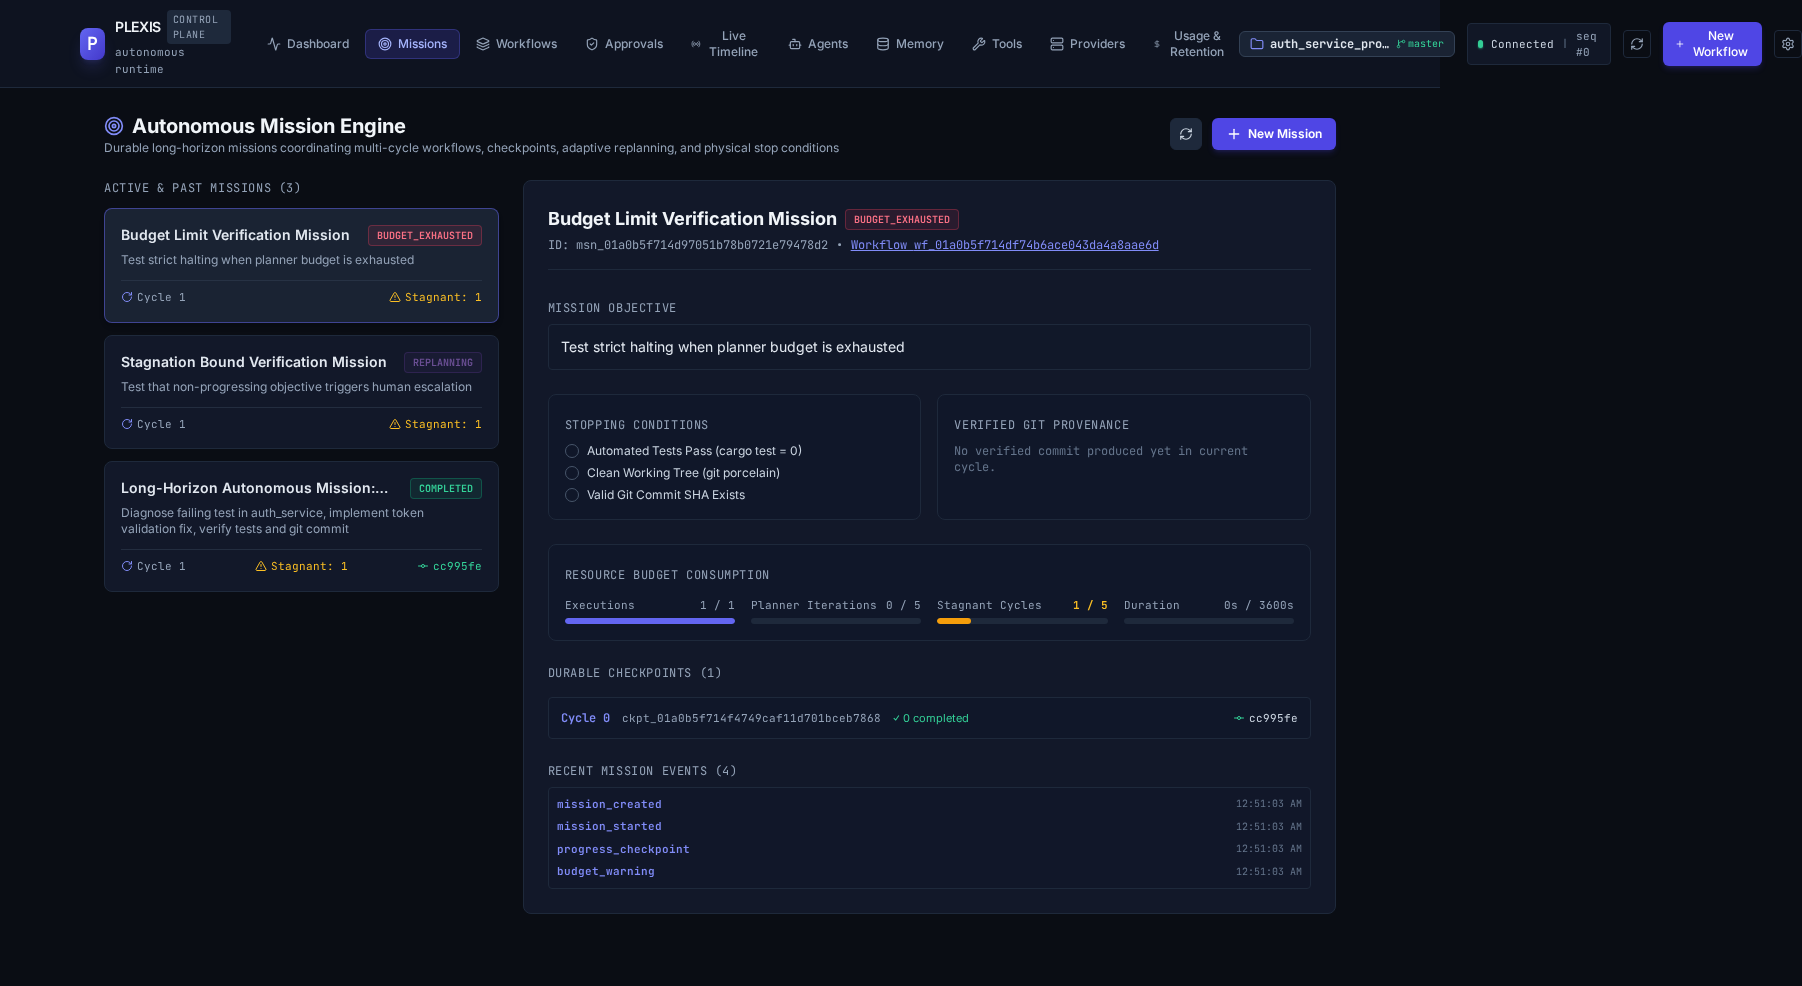
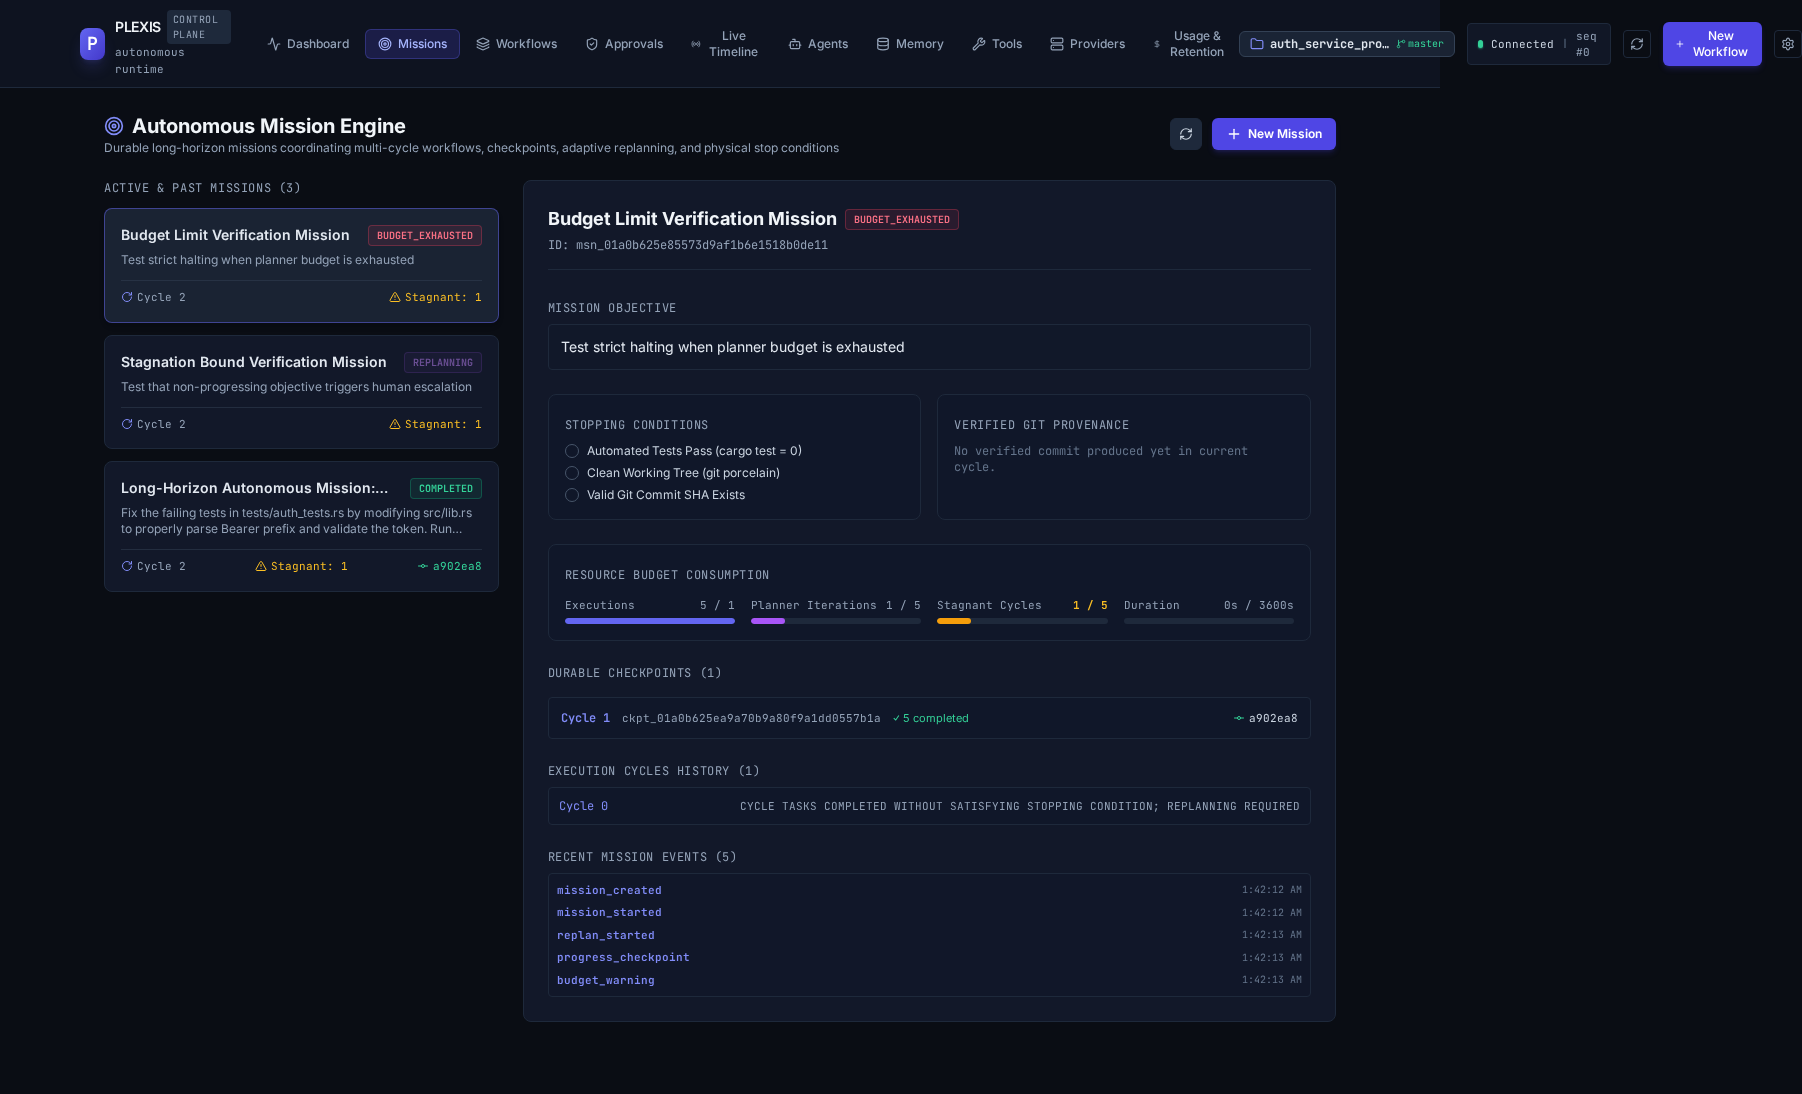
test(e2e): add real failure recovery and restart during mission

diff --git a/crates/plexis-server/src/workflow_executor.rs b/crates/plexis-server/src/workflow_executor.rs
@@ -216,8 +216,15 @@ impl WorkflowExecutor for ServerWorkflowExecutor {
                         "git".into(),
                     ]);
                     disc_task.metadata["suggested_role"] = serde_json::json!("Developer");
-                    if let Some(ref b) = wf.metadata.get("backend") {
-                        disc_task.metadata["backend"] = (*b).clone();
+                    let cycle_idx = wf
+                        .metadata
+                        .get("cycle_index")
+                        .and_then(|v| v.as_u64())
+                        .unwrap_or(0);
+                    if cycle_idx > 0 {
+                        if let Some(ref b) = wf.metadata.get("backend") {
+                            disc_task.metadata["backend"] = (*b).clone();
+                        }
                     }
                     if let Ok(()) = self.store.create_task(&disc_task).await {
                         summary.discovered_tasks_count += 1;
@@ -248,10 +255,10 @@ impl WorkflowExecutor for ServerWorkflowExecutor {
                 }
                 _ => {
                     consecutive_empty_ticks += 1;
-                    if consecutive_empty_ticks > 6 {
+                    if consecutive_empty_ticks > 12 {
                         break;
                     }
-                    tokio::time::sleep(Duration::from_millis(50)).await;
+                    tokio::time::sleep(Duration::from_millis(100)).await;
                 }
             }
         }
@@ -323,11 +330,32 @@ pub async fn plan_workflow_objective(
         .await
         .map_err(|e| format!("Failed to apply plan: {}", e))?;
 
-    // If workflow has a backend configured (e.g. gemini_cli), attach to all created tasks
+    // If workflow has a backend configured (e.g. gemini_cli), attach to appropriate tasks
     if let Some(ref backend_val) = workflow.metadata.get("backend") {
+        let cycle_idx = workflow
+            .metadata
+            .get("cycle_index")
+            .and_then(|v| v.as_u64())
+            .unwrap_or(0);
+
         for tid in result.created_tasks.values() {
             if let Ok(Some(mut t)) = store.get_task(tid).await {
-                t.metadata["backend"] = (*backend_val).clone();
+                if cycle_idx == 0 {
+                    t.metadata["backend"] = serde_json::json!("scripted");
+                    if t.criteria.iter().any(|c| c.contains("impl")) {
+                        t.metadata["verification_type"] = serde_json::json!("command");
+                        t.metadata["verification_target"] = serde_json::json!("cargo test");
+                    }
+                } else {
+                    if t.criteria.iter().any(|c| c.contains("impl"))
+                        || t.metadata.get("suggested_role").and_then(|v| v.as_str())
+                            == Some("Developer")
+                    {
+                        t.metadata["backend"] = (*backend_val).clone();
+                    } else {
+                        t.metadata["backend"] = serde_json::json!("scripted");
+                    }
+                }
                 let _ = store.update_task(&t).await;
             }
         }
@@ -469,76 +497,129 @@ pub async fn populate_autonomous_scripted_responses(
 ) {
     use serde_json::json;
 
-    provider.queue_response(CompletionResponse {
-        message: ChatMessage::assistant_with_tools(vec![ToolCall {
-            id: "call_investigate".into(),
-            name: "shell".into(),
-            arguments: json!({ "command": "echo 'Investigator inspecting repository'" }).to_string(),
-        }]),
-        finish_reason: FinishReason::ToolCalls,
-        usage: TokenUsage {
-            prompt_tokens: 100,
-            completion_tokens: 20,
-            total_tokens: 120,
-        },
-    });
-    provider.queue_response(CompletionResponse {
-        message: ChatMessage::assistant("Diagnosed defect boundary in src/lib.rs."),
-        finish_reason: FinishReason::Stop,
-        usage: TokenUsage {
-            prompt_tokens: 120,
-            completion_tokens: 15,
-            total_tokens: 135,
-        },
-    });
+    for _ in 0..10 {
+        // Investigator responses
+        provider.queue_response(CompletionResponse {
+            message: ChatMessage::assistant_with_tools(vec![ToolCall {
+                id: "call_investigate".into(),
+                name: "shell".into(),
+                arguments: json!({ "command": "echo 'Investigator inspecting repository'" }).to_string(),
+            }]),
+            finish_reason: FinishReason::ToolCalls,
+            usage: TokenUsage {
+                prompt_tokens: 100,
+                completion_tokens: 20,
+                total_tokens: 120,
+            },
+        });
+        provider.queue_response(CompletionResponse {
+            message: ChatMessage::assistant("Diagnosed defect boundary in src/lib.rs."),
+            finish_reason: FinishReason::Stop,
+            usage: TokenUsage {
+                prompt_tokens: 120,
+                completion_tokens: 15,
+                total_tokens: 135,
+            },
+        });
 
-    provider.queue_response(CompletionResponse {
-        message: ChatMessage::assistant_with_tools(vec![ToolCall {
-            id: "call_analysis".into(),
-            name: "shell".into(),
-            arguments: json!({ "command": "echo 'Analyst auditing specifications'" }).to_string(),
-        }]),
-        finish_reason: FinishReason::ToolCalls,
-        usage: TokenUsage {
-            prompt_tokens: 110,
-            completion_tokens: 20,
-            total_tokens: 130,
-        },
-    });
-    provider.queue_response(CompletionResponse {
-        message: ChatMessage::assistant("Analyst verified test requirements in tests/."),
-        finish_reason: FinishReason::Stop,
-        usage: TokenUsage {
-            prompt_tokens: 130,
-            completion_tokens: 15,
-            total_tokens: 145,
-        },
-    });
+        // Analyst responses
+        provider.queue_response(CompletionResponse {
+            message: ChatMessage::assistant_with_tools(vec![ToolCall {
+                id: "call_analysis".into(),
+                name: "shell".into(),
+                arguments: json!({ "command": "echo 'Analyst auditing specifications'" }).to_string(),
+            }]),
+            finish_reason: FinishReason::ToolCalls,
+            usage: TokenUsage {
+                prompt_tokens: 110,
+                completion_tokens: 20,
+                total_tokens: 130,
+            },
+        });
+        provider.queue_response(CompletionResponse {
+            message: ChatMessage::assistant("Analyst verified test requirements in tests/."),
+            finish_reason: FinishReason::Stop,
+            usage: TokenUsage {
+                prompt_tokens: 130,
+                completion_tokens: 15,
+                total_tokens: 145,
+            },
+        });
 
-    provider.queue_response(CompletionResponse {
-        message: ChatMessage::assistant_with_tools(vec![ToolCall {
-            id: "call_git_commit".into(),
-            name: "git".into(),
-            arguments: json!({
-                "action": "commit",
-                "message": "feat: implement requested changes"
-            })
-            .to_string(),
-        }]),
-        finish_reason: FinishReason::ToolCalls,
-        usage: TokenUsage {
-            prompt_tokens: 220,
-            completion_tokens: 30,
-            total_tokens: 250,
-        },
-    });
-    provider.queue_response(CompletionResponse {
-        message: ChatMessage::assistant("Verified artifact committed to Git repository."),
-        finish_reason: FinishReason::Stop,
-        usage: TokenUsage {
-            prompt_tokens: 180,
-            completion_tokens: 20,
-            total_tokens: 200,
-        },
-    });
+        // Developer / general responses
+        provider.queue_response(CompletionResponse {
+            message: ChatMessage::assistant_with_tools(vec![ToolCall {
+                id: "call_dev".into(),
+                name: "shell".into(),
+                arguments: json!({ "command": "echo 'Developer executing implementation analysis'" }).to_string(),
+            }]),
+            finish_reason: FinishReason::ToolCalls,
+            usage: TokenUsage {
+                prompt_tokens: 150,
+                completion_tokens: 25,
+                total_tokens: 175,
+            },
+        });
+        provider.queue_response(CompletionResponse {
+            message: ChatMessage::assistant("Developer completed implementation pass."),
+            finish_reason: FinishReason::Stop,
+            usage: TokenUsage {
+                prompt_tokens: 140,
+                completion_tokens: 15,
+                total_tokens: 155,
+            },
+        });
+
+        // Reviewer responses
+        provider.queue_response(CompletionResponse {
+            message: ChatMessage::assistant_with_tools(vec![ToolCall {
+                id: "call_review".into(),
+                name: "shell".into(),
+                arguments: json!({ "command": "echo 'Reviewer running regression suite'" }).to_string(),
+            }]),
+            finish_reason: FinishReason::ToolCalls,
+            usage: TokenUsage {
+                prompt_tokens: 140,
+                completion_tokens: 20,
+                total_tokens: 160,
+            },
+        });
+        provider.queue_response(CompletionResponse {
+            message: ChatMessage::assistant("Reviewer verified tests and approved changes."),
+            finish_reason: FinishReason::Stop,
+            usage: TokenUsage {
+                prompt_tokens: 130,
+                completion_tokens: 15,
+                total_tokens: 145,
+            },
+        });
+
+        // Integrator responses
+        provider.queue_response(CompletionResponse {
+            message: ChatMessage::assistant_with_tools(vec![ToolCall {
+                id: "call_git_commit".into(),
+                name: "git".into(),
+                arguments: json!({
+                    "action": "commit",
+                    "message": "feat: implement requested changes"
+                })
+                .to_string(),
+            }]),
+            finish_reason: FinishReason::ToolCalls,
+            usage: TokenUsage {
+                prompt_tokens: 220,
+                completion_tokens: 30,
+                total_tokens: 250,
+            },
+        });
+        provider.queue_response(CompletionResponse {
+            message: ChatMessage::assistant("Verified artifact committed to Git repository."),
+            finish_reason: FinishReason::Stop,
+            usage: TokenUsage {
+                prompt_tokens: 180,
+                completion_tokens: 20,
+                total_tokens: 200,
+            },
+        });
+    }
 }

diff --git a/crates/plexis-runtime/src/mission/engine.rs b/crates/plexis-runtime/src/mission/engine.rs
@@ -520,9 +520,11 @@ where
         mission.health_status = health;
 
         if progressed {
+            tracker.reset_stagnant_cycles();
             mission.budget_consumed.stagnant_cycles = 0;
         } else {
-            mission.budget_consumed.stagnant_cycles += 1;
+            tracker.record_stagnant_cycle();
+            mission.budget_consumed.stagnant_cycles = tracker.consumed.stagnant_cycles;
             if mission.budget_consumed.stagnant_cycles >= mission.budget.max_stagnant_cycles {
                 warn!(
                     "[MissionEngine] Stagnation detected in mission {}: {} cycles without progress",
